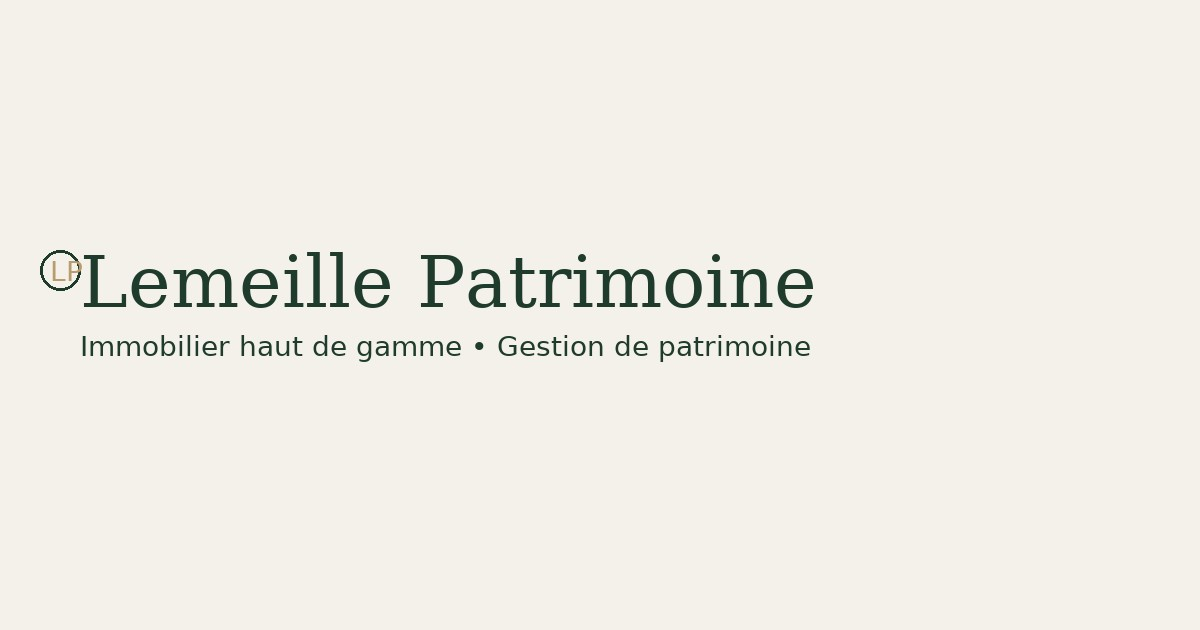
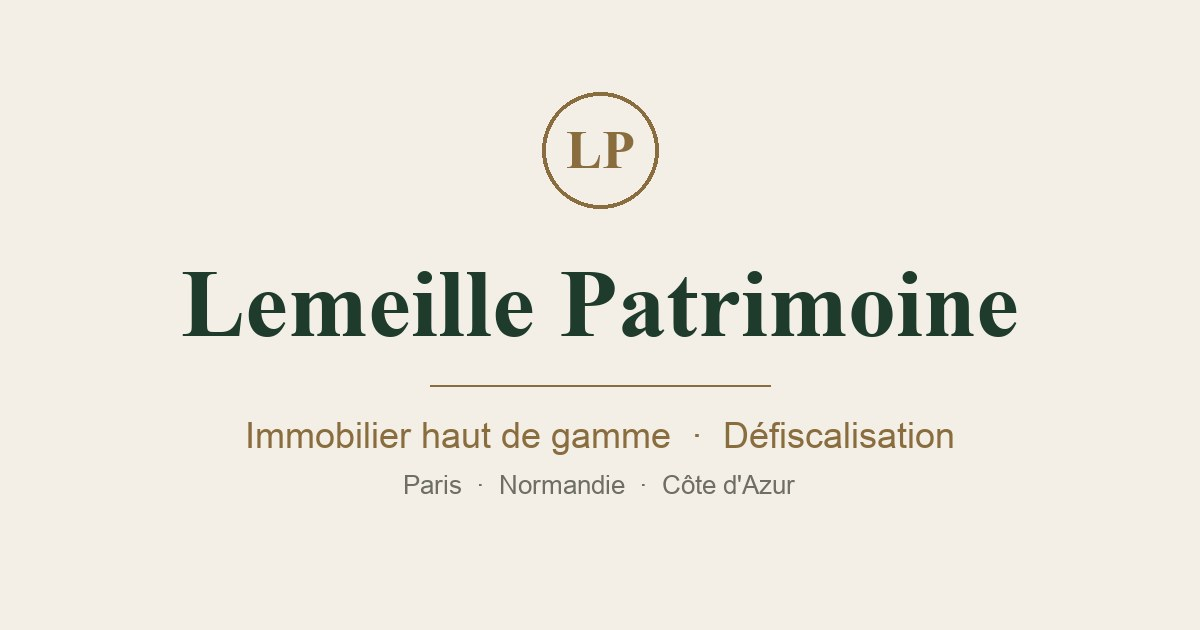
Image de partage (OG) : nouveau visuel + bon slogan
Régénère public/og-image.jpg : monogramme au-dessus du nom (plus de
chevauchement) et slogan corrigé « Immobilier haut de gamme ·
Défiscalisation » (au lieu de « Gestion de patrimoine »). URL versionnée
(?v=2) pour forcer le rafraîchissement du cache des réseaux sociaux.

diff --git a/app/layout.tsx b/app/layout.tsx
@@ -37,16 +37,17 @@ export const metadata: Metadata = {
     title: 'Lemeille Patrimoine — Immobilier haut de gamme & défiscalisation',
     description: "Agence immobilière haut de gamme spécialisée dans la transaction dans l'ancien et la défiscalisation à Paris, en Normandie et sur la Côte d'Azur.",
     images: [{
-      url: '/og-image.jpg',
+      url: '/og-image.jpg?v=2',
       width: 1200,
       height: 630,
-      alt: 'Lemeille Patrimoine'
+      alt: 'Lemeille Patrimoine — Immobilier haut de gamme & défiscalisation'
     }]
   },
   twitter: {
     card: 'summary_large_image',
     title: 'Lemeille Patrimoine — Immobilier & défiscalisation',
     description: "Immobilier haut de gamme & défiscalisation - Paris, Normandie, Côte d'Azur",
+    images: ['/og-image.jpg?v=2'],
   },
   metadataBase: new URL(process.env.NEXT_PUBLIC_SITE_URL || 'https://lemeillepatrimoine.com'),
 };
